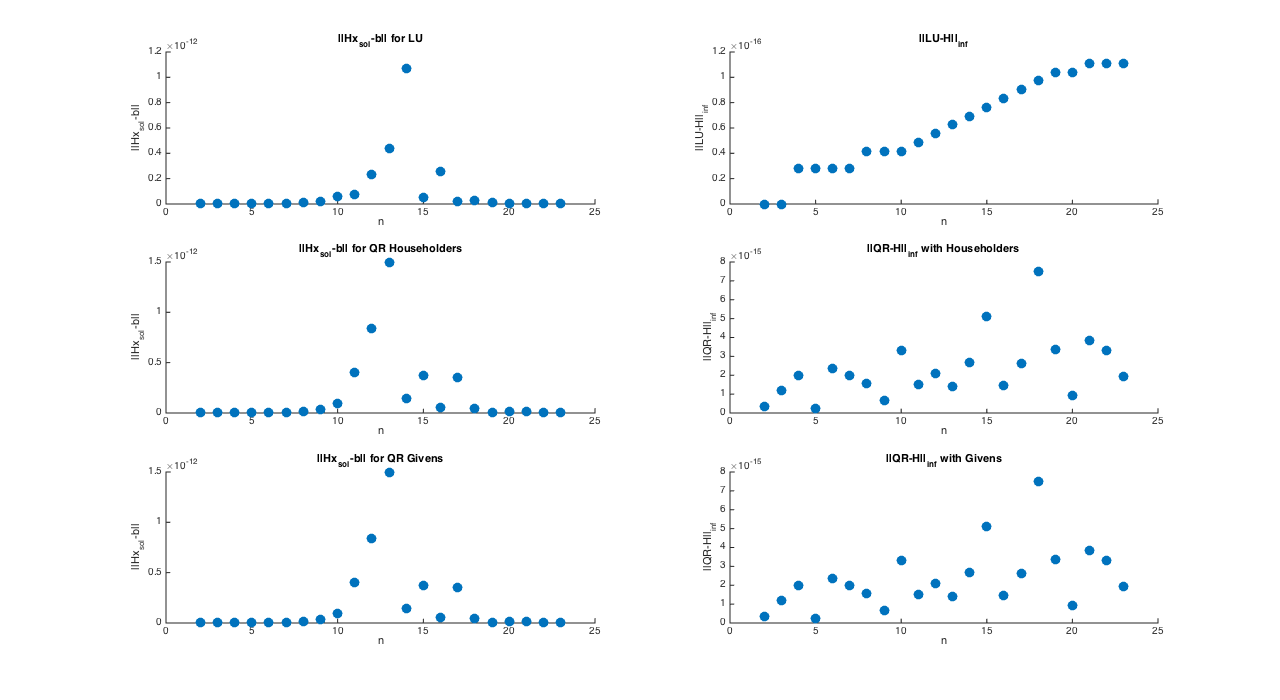
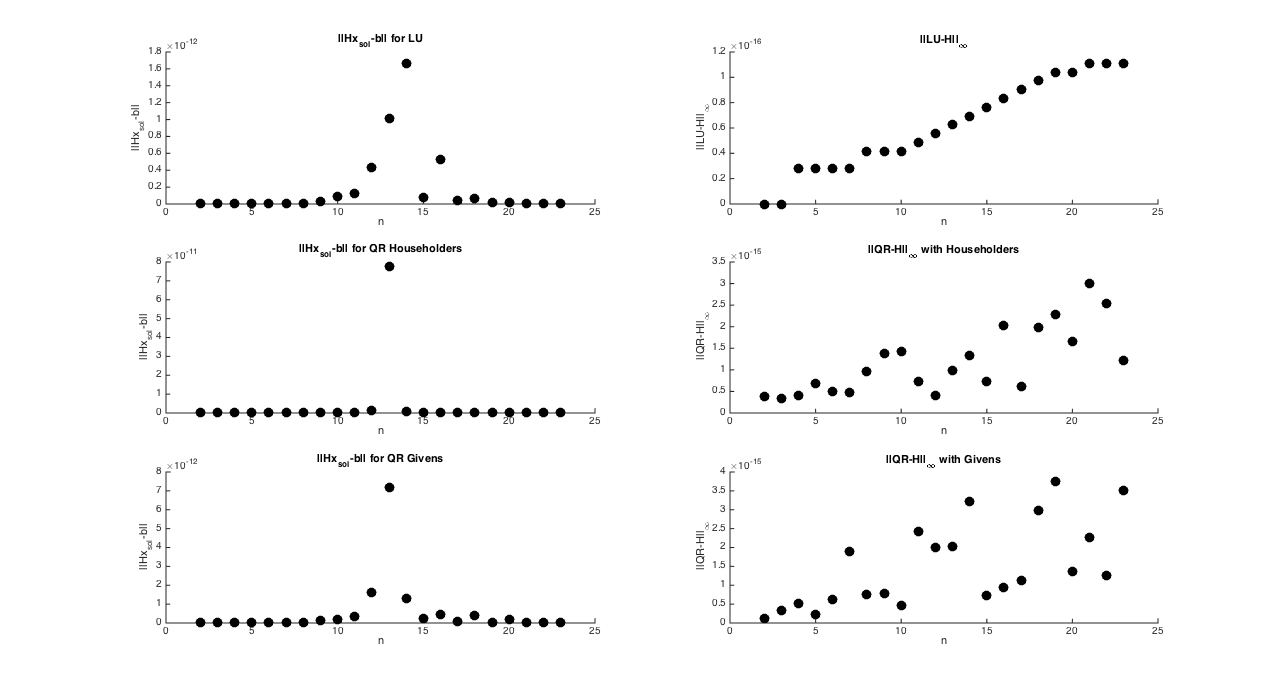
Generate plots

diff --git a/Part1/src/qr_fact_househ.m b/Part1/src/qr_fact_househ.m
@@ -11,7 +11,7 @@ function [ Q, R, dA ] = qr_fact_househ( A )
         v = zeros(nrow, 1);
         v(k:nrow, 1) = R(k:nrow, k);
         
-        v(k) = v(k) + vector_norm(v);
+        v(k) = v(k) - vector_norm(v);
         
         if norm(v) ~= 0
             v = v / vector_norm(v);
